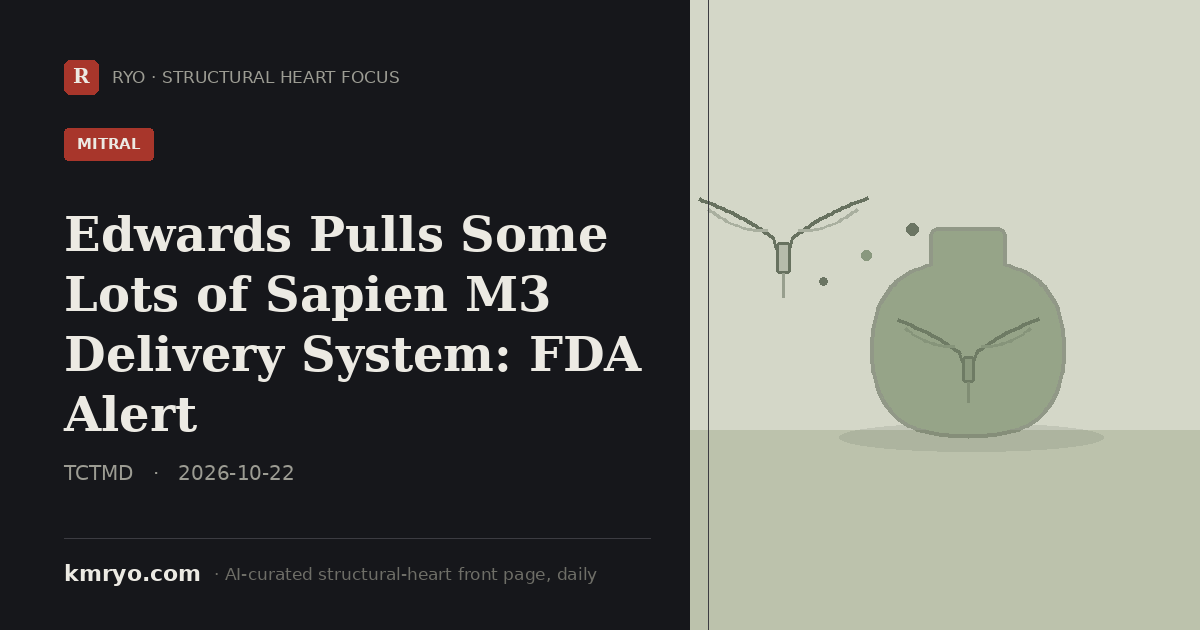
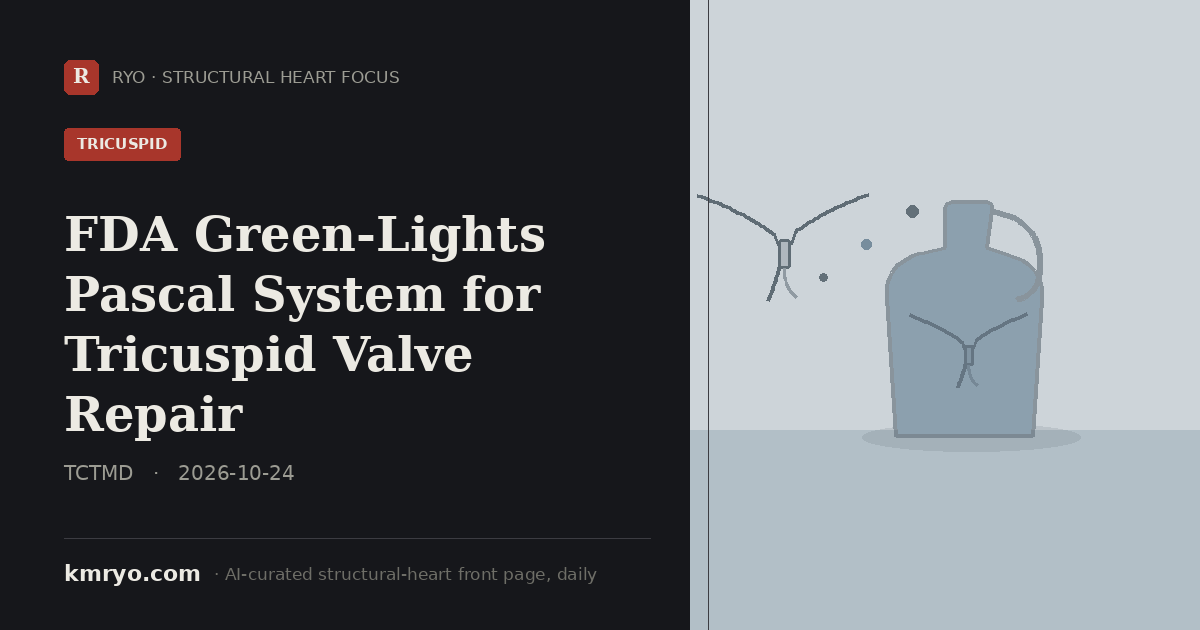
pulse: 2026-10-24 daily update
Claude-Session: https://claude.ai/code/session_019FVUMpMs8fNvBhUjyyTkrp

diff --git a/index.html b/index.html
@@ -6,8 +6,8 @@
 <title>Structural Heart Focus — Daily | Dr. Mi Chen · 千觅量子 RYO</title>
 <meta name="description" content="Structural Heart Focus — the day's most important structural-heart reading (top journals, major meetings and the field's conversation), curated daily by an AI agent from inside the Zurich hybrid room. By Dr. Mi Chen · 千觅量子 RYO.">
 <!-- Social share card. Regenerated daily by the pulse agent (pulse/make_share_card.py); og:title/description updated to the day's top story so LinkedIn/WeChat/X show today's headline, not a static portrait. -->
-<meta property="og:title" content="Edwards Pulls Some Lots of Sapien M3 Delivery System: FDA Alert">
-<meta property="og:description" content="The FDA issued an early alert on Edwards' Commander M delivery system for Sapien M3 TMVR after balloon bursts were linked to one death and one serious injury, prompting a recall of four affected lots.">
+<meta property="og:title" content="FDA Green-Lights Pascal System for Tricuspid Valve Repair">
+<meta property="og:description" content="The FDA approved Edwards' PASCAL Precision system for transcatheter tricuspid edge-to-edge repair on Oct 21, 2026, making it the second approved T-TEER device in the US after Abbott's TriClip.">
 <meta property="og:image" content="https://www.kmryo.com/pulse/img/share/card.png">
 <meta property="og:image:width" content="1200">
 <meta property="og:image:height" content="630">
@@ -16,8 +16,8 @@
 <meta property="og:type" content="website">
 <meta property="og:site_name" content="kmryo.com · Structural Heart Focus">
 <meta name="twitter:card" content="summary_large_image">
-<meta name="twitter:title" content="Edwards Pulls Some Lots of Sapien M3 Delivery System: FDA Alert">
-<meta name="twitter:description" content="The FDA issued an early alert on Edwards' Commander M delivery system for Sapien M3 TMVR after balloon bursts were linked to one death and one serious injury, prompting a recall of four affected lots.">
+<meta name="twitter:title" content="FDA Green-Lights Pascal System for Tricuspid Valve Repair">
+<meta name="twitter:description" content="The FDA approved Edwards' PASCAL Precision system for transcatheter tricuspid edge-to-edge repair on Oct 21, 2026, making it the second approved T-TEER device in the US after Abbott's TriClip.">
 <meta name="twitter:image" content="https://www.kmryo.com/pulse/img/share/card.png">
[1 lines of base64/hex data omitted]
 <link rel="preconnect" href="https://fonts.googleapis.com">
